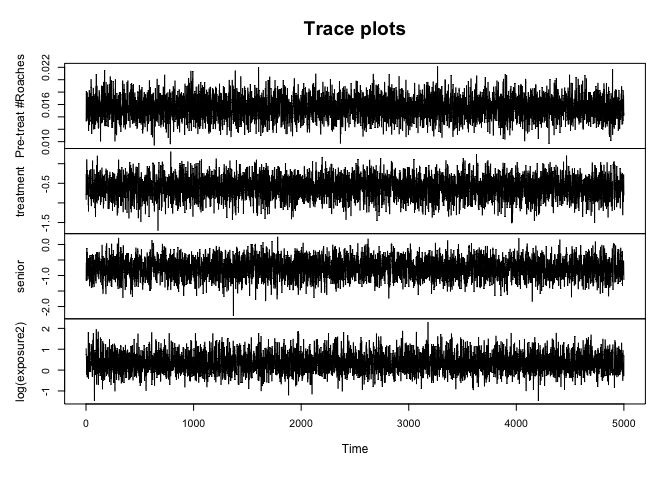
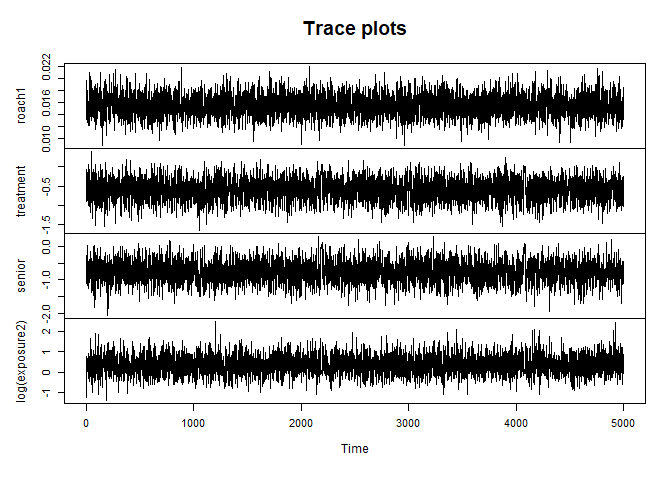
update README with new syntax

diff --git a/README.md b/README.md
@@ -15,8 +15,8 @@ censored. Flexible and interpretable models for *integer-valued
 processes* are therefore highly useful in practice.
 
 As an illustration, consider the `roaches` data from Gelman and Hill
-(2006). The response variable, \(y_i\), is the number of roaches caught
-in traps in apartment \(i\), with \(i=1,\ldots, n = 262\).
+(2006). The response variable, $y_i$, is the number of roaches caught in
+traps in apartment $i$, with $i=1,\ldots, n = 262$.
 
 ``` r
 # Source: http://mc-stan.org/rstanarm/articles/count.html
@@ -53,18 +53,6 @@ apartment building is restricted to elderly residents, and the number of
 days for which the traps were exposed. We are interested in modeling how
 the roach incidence varies with these predictors.
 
-``` r
-# Construct a design matrix:
-X = model.matrix(y ~ roach1 + treatment + senior + log(exposure2),
-                 data = roaches)
-
-# Rename:
-colnames(X)[2]= 'Pre-treat #Roaches'
-
-# Dimensions:
-n = nrow(X); p = ncol(X)
-```
-
 There are two main modeling frameworks for this kind of data:
 
 1.  *Poisson and extensions*: the Poisson distribution is a valid
@@ -84,14 +72,14 @@ There are two main modeling frameworks for this kind of data:
     continuous data models. For example, one might consider the
     transformed regression model
 
-\[
+$$
 z_i = \log(y_i + 1), \quad
 y_i = x_i'\beta + \epsilon_i, \quad \epsilon_i \stackrel{iid}{\sim}N(0, \sigma^2)
-\] The transformation helps model the skewness often found in count
+$$ The transformation helps model the skewness often found in count
 data, while the regression model incorporates a simple and well-known
 continuous data model. However, this approach has two major flaws: (i)
-the transformation \(z_i = \log(y_i + 1)\) requires the inclusion of an
-artificial constant to accommodate \(y_i=0\), which is arbitrary and may
+the transformation $z_i = \log(y_i + 1)$ requires the inclusion of an
+artificial constant to accommodate $y_i=0$, which is arbitrary and may
 introduce bias, and more importantly (ii) the implied data-generating
 process is *not* integer-valued, which induces a fundamental discrepancy
 between the data and the model.
@@ -100,25 +88,25 @@ between the data and the model.
 
 STAR models build upon the continuous data model to provide a *valid
 integer-valued data-generating process*. An example STAR model for
-linear regression is as follows:  The latent data \(y_i^*\) act as a
-*continuous proxy* for the count data \(y_i\), which is easier to model
+linear regression is as follows: The latent data $y_i^*$ act as a
+*continuous proxy* for the count data $y_i$, which is easier to model
 yet has a simple mapping via the floor function to the observed data.
-The latent data \(y_i^*\) are transformed to \(z_i^*\), as in common
+The latent data $y_i^*$ are transformed to $z_i^*$, as in common
 practice, and modeled using Gaussian linear regression. This model
 inherits the same structure as before, but the data-generating process
 is now integer-valued.
 
-More generally, STAR models are defined via a *rounding operator* \(h\),
-a (known or unknown) *transformation* \(g\), and a *continuous data
-model* \(\Pi_\theta\) with unknown parameters \(\theta\):  Importantly,
-STAR models are highly flexible integer-valued processes, and provide
-the capability to model (i) discrete data, (ii) zero-inflation, (iii)
-over- or under-dispersion, and (iv) bounded or censored data.
+More generally, STAR models are defined via a *rounding operator* $h$, a
+(known or unknown) *transformation* $g$, and a *continuous data model*
+$\Pi_\theta$ with unknown parameters $\theta$: Importantly, STAR models
+are highly flexible integer-valued processes, and provide the capability
+to model (i) discrete data, (ii) zero-inflation, (iii) over- or
+under-dispersion, and (iv) bounded or censored data.
 
-We focus on conditionally Gaussian models of the form \[
+We focus on conditionally Gaussian models of the form $$
 z^*(x) = \mu_\theta(x) + \epsilon(x), \quad \epsilon(x) \stackrel{iid}{\sim}N(0, \sigma^2)
-\] where \(\mu_\theta(x)\) is the conditional expectation of the
-transformed latent data with unknown parameters \(\theta\). Examples
+$$ where $\mu_\theta(x)$ is the conditional expectation of the
+transformed latent data with unknown parameters $\theta$. Examples
 include linear, additive, and tree-based regression models.
 
 Estimation, inference, and prediction for STAR are available for both
@@ -130,125 +118,93 @@ provided in the `rSTAR` package.
 Frequentist (or classical) estimation and inference for STAR models is
 provided by an EM algorithm. Sufficient for estimation is an `estimator`
 function which solves the least squares (or Gaussian maximum likelihood)
-problem associated with \(\mu_\theta\)—or in other words, the estimator
+problem associated with $\mu_\theta$—or in other words, the estimator
 that *would* be used for Gaussian or continuous data. Specifically,
 `estimator` inputs data and outputs a list with two elements: the
-estimated `coefficients` \(\hat \theta\) and the `fitted.values`
-\(\hat \mu_\theta(x_i) = \mu_{\hat \theta}(x_i)\). The EM algorithm
+estimated `coefficients` $\hat \theta$ and the `fitted.values`
+$\hat \mu_\theta(x_i) = \mu_{\hat \theta}(x_i)$. The EM algorithm
 updates the parameters until convergence to the maximum likelihood
 estimators (MLEs), and is implemented in `star_EM`:
 
 ``` r
-# Define the estimator function:
-estimator = function(y) lm(y ~ X - 1)
-
 # Select a transformation:
 transformation = 'log' # Log transformation
 # transformation = 'np' # Estimated transformation using empirical CDF
 
 # EM algorithm for STAR (using the log-link)
-fit_em = star_EM(y = y, 
-                 estimator = estimator, 
-                 transformation = transformation)
+fit_em = lm_star(y ~ roach1 + treatment + senior + log(exposure2),
+                 data = roaches, transformation = transformation)
+
+
+# Dimensions:
+n = nrow(fit_em$X); p = ncol(fit_em$X)
 
 # Fitted coefficients:
 round(coef(fit_em), 3)
 ```
 
-    ##        X(Intercept) XPre-treat #Roaches          Xtreatment             Xsenior 
-    ##               1.260               0.015              -0.715              -0.912 
-    ##     Xlog(exposure2) 
-    ##               0.560
+    ##    (Intercept)         roach1      treatment         senior log(exposure2) 
+    ##          1.260          0.015         -0.715         -0.912          0.560
 
 Here the `log` transformation was used, but other options are available;
-see `?star_EM` for details.
+see `?lm_star` for details.
 
 Based on the fitted STAR model, we may further obtain *confidence
-intervals* for the estimated coefficients using `star_CI`:
+intervals* for the estimated coefficients using `confint`:
 
 ``` r
 # Confidence interval for the j=2 column:
 j = 2
-ci_j = star_CI(y = y, X = X, level = 0.95,
+ci_j = confint(fit_em, level = 0.95,
         j = j,
-        transformation = transformation, 
         include_plot = FALSE)
-names(ci_j) = paste(colnames(X)[j], c('(Lower)', '(Upper)'))
 print(round(ci_j, 3))
 ```
 
-    ## Pre-treat #Roaches (Lower) Pre-treat #Roaches (Upper) 
-    ##                      0.012                      0.019
+    ## [1] 0.012 0.019
 
 ``` r
 # Confidence for all columns:
 ci_all = sapply(1:p, function(j)
-  star_CI(y = y, X = X, level = 0.95,
+  confint(fit_em, level = 0.95,
         j = j,
-        transformation = transformation, 
         include_plot = FALSE))
-colnames(ci_all) = colnames(X); 
+colnames(ci_all) = colnames(fit_em$X); 
 rownames(ci_all) = c('Lower', 'Upper')
 print(t(round(ci_all, 3)))
 ```
 
-    ##                     Lower  Upper
-    ## (Intercept)         0.791  1.729
-    ## Pre-treat #Roaches  0.012  0.019
-    ## treatment          -1.263 -0.175
-    ## senior             -1.517 -0.322
-    ## log(exposure2)     -0.556  1.696
+    ##                 Lower  Upper
+    ## (Intercept)     0.785  1.711
+    ## roach1          0.012  0.019
+    ## treatment      -1.259 -0.171
+    ## senior         -1.524 -0.319
+    ## log(exposure2) -0.558  1.697
 
 Similarly, *p-values* are available using likelihood ratio tests, which
 can be applied for individual coefficients,
 
-\[
+$$
 H_0: \beta_j= 0 \quad \mbox{vs} \quad H_1: \beta_j \ne 0
-\]
-
-``` r
-# p-value for the treatment effect
-j = 3 # the jth covariate
-
-# Note that the null model estimator *does not* include X[,j]:
-fit_em_0 = star_EM(y = y,
-                   estimator = function(y) lm(y ~ X[,-j] - 1), 
-                   transformation = transformation)
-# P-values:
-p_val_j = pchisq(-2*(fit_em_0$logLik - fit_em$logLik),
-       df = 1, lower.tail = FALSE)
-
-# Rename and print:
-names(p_val_j) = colnames(X)[j]
-print(p_val_j)
-```
-
-    ##  treatment 
-    ## 0.01027887
+$$
 
 or for joint sets of variables, analogous to a (partial) F-test:
 
-\[
+$$
 H_0: \beta_1=\ldots=\beta_p = 0, \quad \mbox{vs.} \quad H_1: \beta_j \ne 0 \mbox{ for some } j=1,\ldots,p
-\]
+$$
 
 ``` r
 # p-value for *any* effects
 # Note that the null model estimator *does not* include any X:
-fit_em_0 = star_EM(y = y,
-                   estimator = function(y) lm(y ~ 1), # no x-variable
-                   transformation = transformation)
 # P-values:
-p_val_all = pchisq(-2*(fit_em_0$logLik - fit_em$logLik),
-       df = p - 1, lower.tail = FALSE)
-
-# Rename and print:
-names(p_val_all) = 'Any linear effects'
-print(p_val_all)
+print(pvals(fit_em))
 ```
 
-    ## Any linear effects 
-    ##       1.078663e-17
+    ##        (Intercept)             roach1          treatment             senior 
+    ##       1.705446e-06       2.980643e-16       1.027886e-02       3.090892e-03 
+    ##     log(exposure2) Any linear effects 
+    ##       3.263339e-01       1.078662e-17
 
 # Bayesian inference for STAR models
 
@@ -256,15 +212,21 @@ For a Bayesian model, STAR requires only an algorithm for *initializing
 and sampling* from the posterior distribution under a *continuous data
 model*. More specifically, posterior inference under STAR is based on a
 Gibbs sampler, which augments the aforementioned continuous sampler with
-a draw from \([z^* | y, \theta]\). When \(\Pi_\theta\) is conditionally
-Gaussian, \([z^* | y, \theta]\) is a truncated Gaussian distribution.
+a draw from $[z^* | y, \theta]$. When $\Pi_\theta$ is conditionally
+Gaussian, $[z^* | y, \theta]$ is a truncated Gaussian distribution.
 
-As an illustration, consider the Bayesian linear regression model  With
+As an illustration, consider the Bayesian linear regression model With
 STAR and a log transformation, posterior samples for
-\((\beta, \sigma_\beta, \sigma)\) are obtained using `star_MCMC` as
+$(\beta, \sigma_\beta, \sigma)$ are obtained using `star_MCMC` as
 follows:
 
 ``` r
+X = model.matrix(y ~ roach1 + treatment + senior + log(exposure2),
+                 data = roaches)
+
+# Dimensions:
+n = nrow(X); p = ncol(X)
+
 fit_mcmc = star_MCMC(y = y,
                           sample_params = function(y, params)
                             sample_params_lm(y, X, params),
@@ -276,10 +238,10 @@ fit_mcmc = star_MCMC(y = y,
 The function `sample_params` computes a single draw of the parameters
 `params` conditional on continuous data. Here, the update is for
 Bayesian linear Gaussian regression, which samples from the posterior of
-\((\beta, \sigma_\beta, \sigma)\) conditional on the continuous latent
-data \(z^*\). The function `init_params` simply initializes the
-parameters `params`. Posterior expectations and posterior credible
-intervals are available as follows:
+$(\beta, \sigma_\beta, \sigma)$ conditional on the continuous latent
+data $z^*$. The function `init_params` simply initializes the parameters
+`params`. Posterior expectations and posterior credible intervals are
+available as follows:
 
 ``` r
 # Posterior mean of each coefficient:
@@ -287,9 +249,9 @@ round(coef(fit_mcmc),3)
 ```
 
     ##       beta1       beta2       beta3       beta4       beta5 sigma_beta1 
-    ##       1.127       0.016      -0.599      -0.754       0.349    1000.000 
+    ##       1.131       0.015      -0.597      -0.753       0.344    1000.000 
     ## sigma_beta2 sigma_beta3 sigma_beta4 sigma_beta5 
-    ##       0.901       0.901       0.901       0.901
+    ##       0.905       0.905       0.905       0.905
 
 ``` r
 # Credible intervals for regression coefficients
@@ -301,12 +263,12 @@ colnames(ci_all_bayes) = colnames(X); rownames(ci_all_bayes) = c('Lower', 'Upper
 print(t(round(ci_all_bayes, 3)))
 ```
 
-    ##                     Lower  Upper
-    ## (Intercept)         0.589  1.635
-    ## Pre-treat #Roaches  0.012  0.019
-    ## treatment          -1.167 -0.049
-    ## senior             -1.381 -0.127
-    ## log(exposure2)     -0.498  1.335
+    ##                 Lower  Upper
+    ## (Intercept)     0.577  1.648
+    ## roach1          0.012  0.019
+    ## treatment      -1.161 -0.035
+    ## senior         -1.398 -0.088
+    ## log(exposure2) -0.527  1.311
 
 We may further evaluate the model based on posterior diagnostics and
 posterior predictive checks on the simulated versus observed proportion
@@ -329,7 +291,7 @@ getEffSize(post.coef)
 ```
 
     ##    Min. 1st Qu.  Median    Mean 3rd Qu.    Max. 
-    ##    3719    4162    4554    4457    4849    5000
+    ##    3127    3157    3888    3976    4706    5000
 
 ``` r
 # Posterior predictive check:
@@ -342,34 +304,35 @@ abline(v = mean(y==0), lwd=4, col ='blue')
 
 # Additional features in `rSTAR`
 
-  - A fixed upper bound, `y_max`, with \(y(x) \le \mbox{}\) `y_max` for
-    all \(x\)
+- A fixed upper bound, `y_max`, with $y(x) \le \mbox{}$ `y_max` for all
+  $x$
 
-  - Residual diagnostics in `star_EM`
+- Residual diagnostics in `star_EM`
 
-  - Log-likelihood at MLEs in `star_EM` for model comparison and
-    information criteria (AIC or BIC)
+- Log-likelihood at MLEs in `star_EM` for model comparison and
+  information criteria (AIC or BIC)
 
-  - Customized functions for STAR with gradient boosting `gbm_star` and
-    STAR with random forests `randomForest_star`
+- Customized functions for STAR with gradient boosting `gbm_star` and
+  STAR with random forests `randomForest_star`
 
-  - Fitted values \(\hat y(x) = E\{y(x)\}\) and posterior samples from
-    \([\hat y(x) | y]\) in `star_MCMC`
+- Fitted values $\hat y(x) = E\{y(x)\}$ and posterior samples from
+  $[\hat y(x) | y]$ in `star_MCMC`
 
-  - Samples from the *integer-valued* posterior predictive distribution
-    \([\tilde y(x) | y]\) in `star_MCMC`, where \(\tilde y\) denotes
-    future or unobserved data
+- Samples from the *integer-valued* posterior predictive distribution
+  $[\tilde y(x) | y]$ in `star_MCMC`, where $\tilde y$ denotes future or
+  unobserved data
 
-  - Customized samplers for Bayesian additive models
-    `sample_params_additive` and linear models with horseshoe priors
-    `sample_params_lm_hs`
+- Customized samplers for Bayesian additive models
+  `sample_params_additive` and linear models with horseshoe priors
+  `sample_params_lm_hs`
 
-  - WAIC and pointwise log-likelihoods for (Bayesian) model comparisons
+- WAIC and pointwise log-likelihoods for (Bayesian) model comparisons
 
-  - A customized STAR model for Bayesian additive regression trees
-    (BART) `bart_star_MCMC`
+- A customized STAR model for Bayesian additive regression trees (BART)
+  `bart_star_MCMC`
 
-  - Posterior samplers for STAR with unknown and nonparametric
-    transformation \(g\) 
-    
-  - Monte Carlo samplers for posterior and predictive inference with linear regression and spline regression
+- Posterior samplers for STAR with unknown and nonparametric
+  transformation $g$
+
+- Monte Carlo samplers for posterior and predictive inference with
+  linear regression and spline regression
